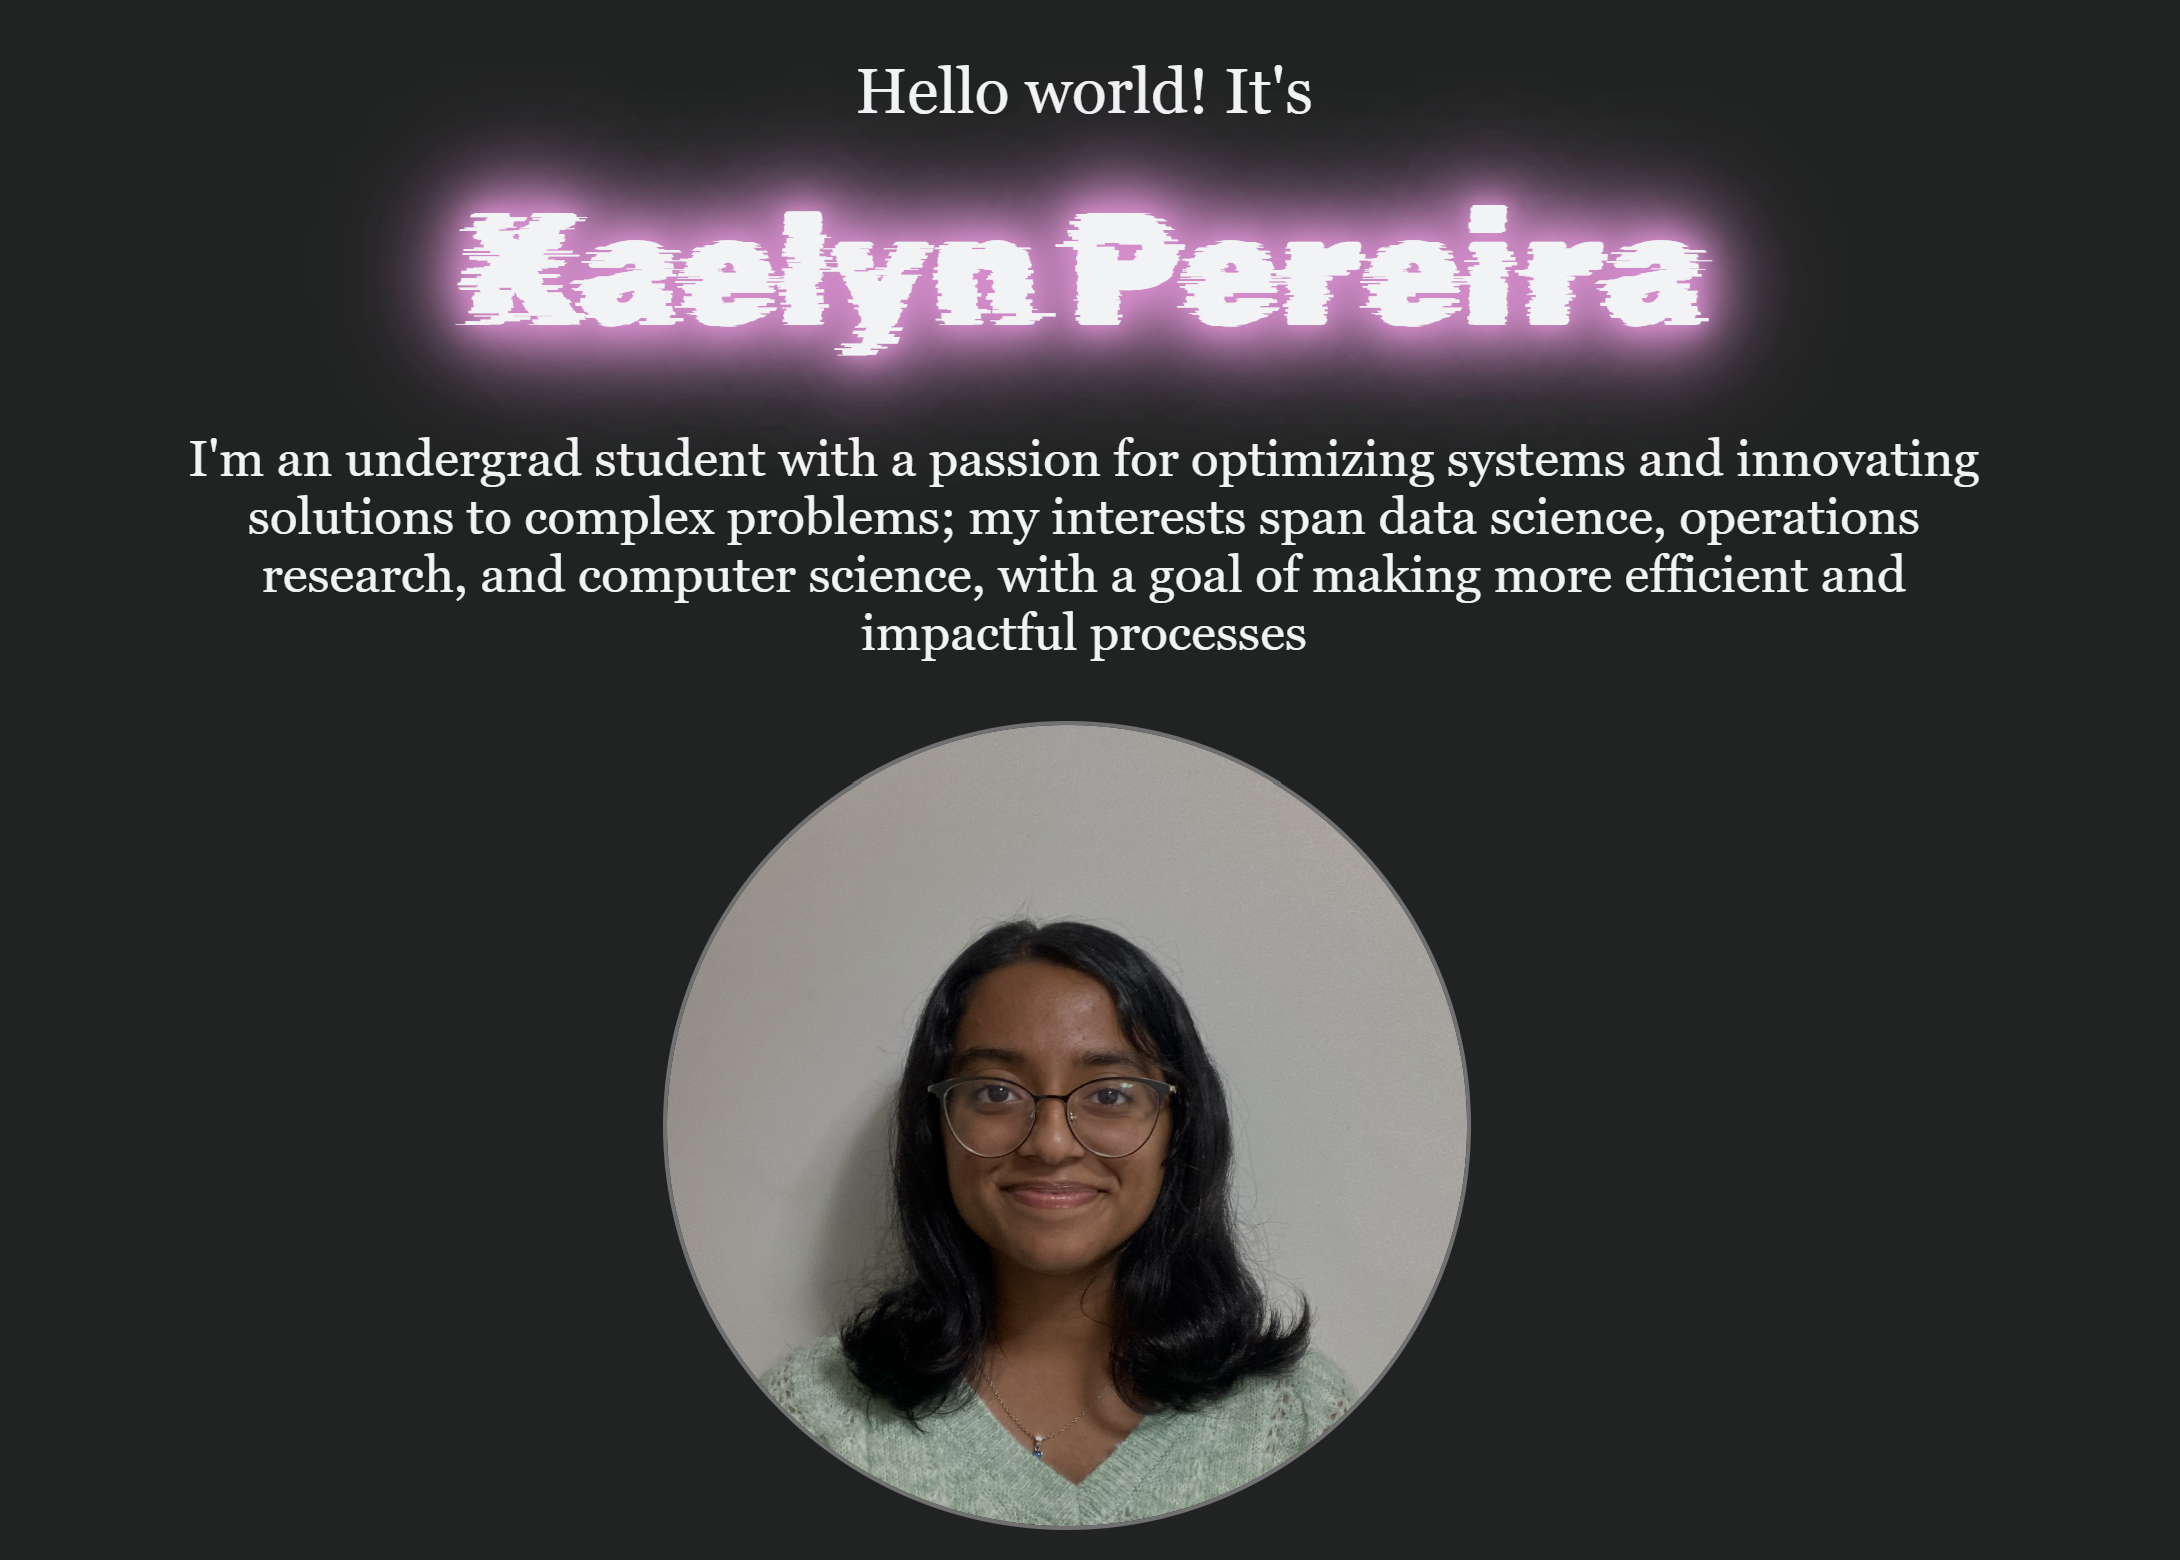
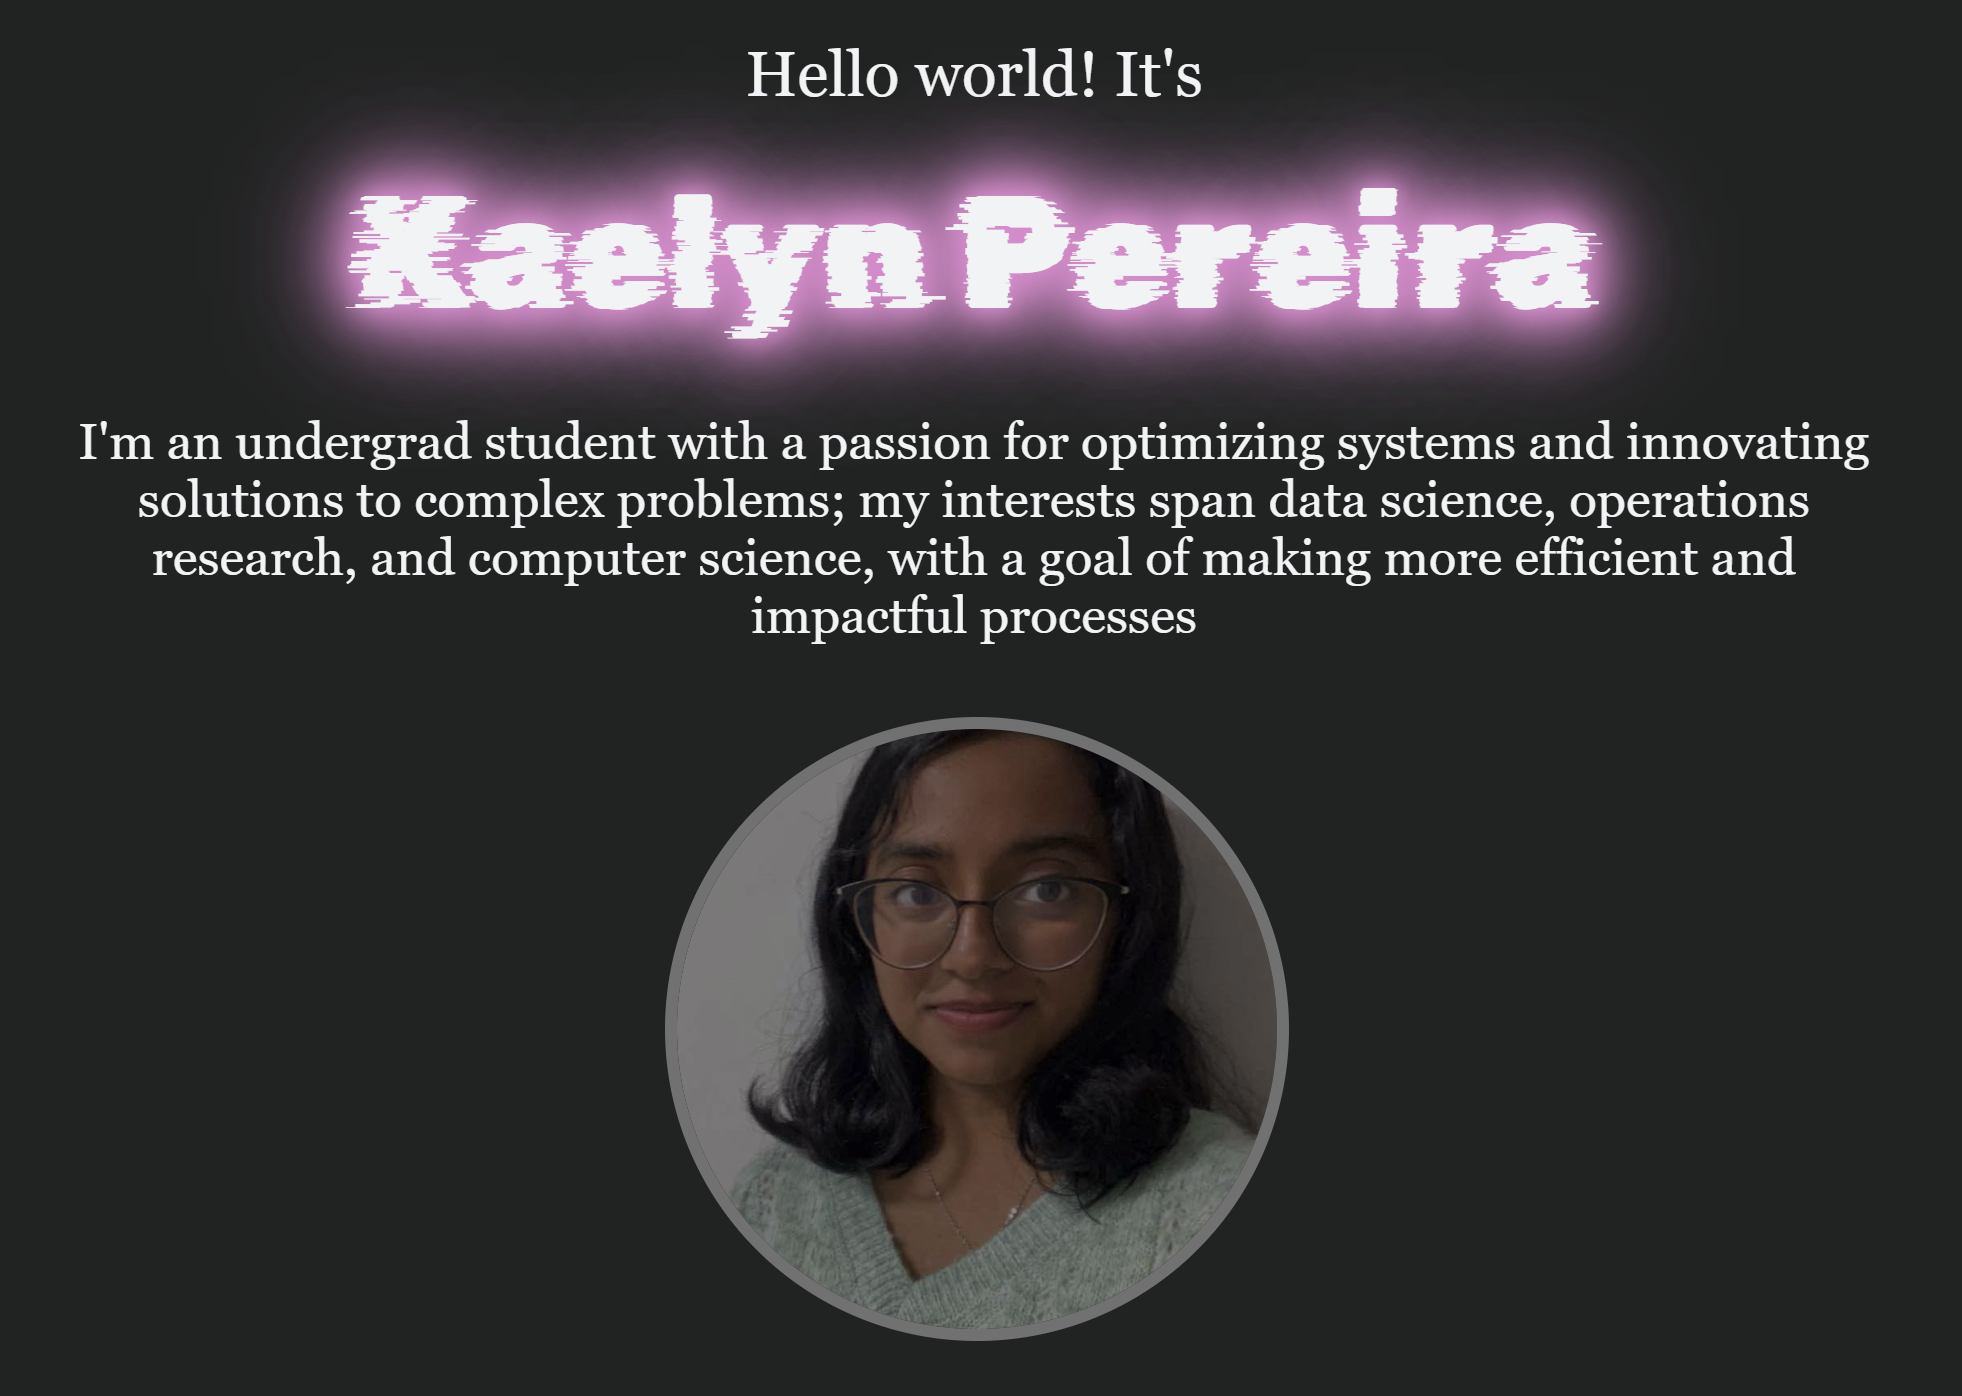
updated project descriptions

Changed region(s): [[0.0311, 0.0924, 0.9638, 0.9857], [0.3731, 0.0308, 0.6218, 0.0924]]

diff --git a/my-app/src/components/projects.js b/my-app/src/components/projects.js
@@ -19,7 +19,7 @@ const Projects = () => {
         <p className='name'>Personal Website</p>
         <a className='link' href="https://github.com/k2pereir/my-website">Follow along here!</a>
         <img className='image' src={personalWeb} alt='temp'></img>
-        <p className='description'>Created with React and deployed with GitHub Pages. This website is a showcase of my projects and skills</p>
+        <p className='description'>This website was built using React, with the backend developed in JavaScript and the frontend styled with CSS. It was deployed using GitHub Pages and serves as a showcase of my projects and skill sets.</p>
       </div>; 
     } else if (selectedProject === 'SignQuest') {
       return <div className='container'>
@@ -27,7 +27,7 @@ const Projects = () => {
         <a className='link' href="https://youtu.be/KXfTq8JxxY8">Watch the pitch video!</a>
         <a className='link2' href="https://github.com/ohi-711/jamhacks8project">Take a look at the code!</a>
         <img className='image' src={signQuest} alt='singQuest'></img>
-        <p className='description'>Created with Python, HTML, and CSS, this project is a sign language learning game that implements the MediaPipe Hand Landmarker task and OpenCV</p>
+        <p className='description'>SignQuest is a web application with a Python backend that generates a word from a predetermined list, prompting the user to demonstrate its sign language representation. It uses OpenCV to access the camera and MediaPipe's Hand Landmarking to verify the correctness of the sign. The frontend was developed using HTML and CSS.</p>
       </div>;
     } else if (selectedProject === 'Sewstainability') {
       return <div className='container'>
@@ -35,28 +35,28 @@ const Projects = () => {
       <a className='link' href="https://youtu.be/_IGU8IxzBbA">Watch the demo video!</a>
       <a className='link2' href='https://github.com/k2pereir/technova_project'>Take a look at the code!</a>
       <img className='image' src={sewstain} alt='sewstainability'></img>
-      <p className='description'>Created with Python and Streamlit, this projects promotes sustainable fashion with an online closet, thrift store, and outfit-repeat tracker</p>
+      <p className='description'>Sewstainability was created with Python and Streamlit for frontend styling. It promotes sustainable fashion with an online closet which users can track how often they reuse pieces, a thrift store where users can sell items they no longer use, and a virtual garden to incentivise the repetition of outfits.</p>
     </div>;
     } else if (selectedProject === 'Rock, Paper, Scissors') {
       return <div className='container'>
       <p className='name'>Rock, Paper, Scissors</p>
       <a className='link' href="https://github.com/k2pereir/rockpaperscissors">Follow along here!</a>
       <img className='image' src={rps} alt='rock, paper, scissors'></img>
-      <p className='description'>My current project is in Python and uses the MediaPipe Hand Landmarking and OpenCV to create a single player rock paper scissors game</p>
+      <p className='description'>My current project uses OpenCV to access the camera and collect information through MediaPipe Hand Landmarking on hand positions for rock, paper, and scissors. Data augmentation techniques such as scaling, flipping, and rotating are applied to extend the dataset and will be used to train a model to recognize rock, paper, and scissor gestures to create a single player version of the game.</p>
     </div>;
     } else if (selectedProject === 'Financial Tracker') {
       return <div className='container'>
       <p className='name'>Financial Tracker</p>
       <a className='link' href="https://youtu.be/S5iEzmtLn5A">Watch the demo video!</a>
-      <img className='image' src={financialtracker} alt='financial tracker'></img>
-      <p className='description'>Made with Excel Macros and VBA, this project is a comprehensive financial tracker</p>
+      <img className='image1' src={financialtracker} alt='financial tracker'></img>
+      <p className='description'>This financial tracker was made with Excel Macros and VBA. It contains a income and expense tracker, comprehensive breakdown of spendings, predictions for future spendings, a virtual savings jar with the ability to track savings goals, and a financial advice feature with hyperlinks to resources based on the user’s current financial state.</p>
     </div>;
     } else if (selectedProject === 'Varos') {
       return <div className='container'>
       <p className='name'>Varos</p>
       <a className='link' href="https://github.com/milkman9999/jamhaxors1">Take a look at the code!</a>
       <img className='image' src={varos} alt='varos'></img>
-      <p className='description'>'Made with JavaScript, the OpenAI API, HTML, and CSS, this web application generates a custom workout and diet plan based on user input</p>
+      <p className='description'>Made with JavaScript, the OpenAI API, HTML, and CSS, Varos generates a custom workout and diet plan based on user inputted information.</p>
     </div>;
     }
   }
@@ -117,15 +117,15 @@ const Projects = () => {
             style={{
               position: 'absolute',
               border: '2px',
-              borderColor: 'rgb(113, 113, 113)', 
+              borderColor: 'rgb(249, 217, 241)', 
               width: '40rem', 
-              height: '30rem',
+              height: '35rem',
               backgroundColor: 'rgb(113, 113, 113)',
-              marginTop: '-250px',
+              marginTop: '-260px',
               marginLeft: '250px',
               borderRadius: '10px',
-              borderColor: 'rgb(33, 34, 34)',
-              boxShadow: '0 4px 8px rgb(113, 113, 113)',
+              borderColor: 'rgb(249, 217, 241)',
+              boxShadow: '0 4px 8px rgb(249, 217, 241)',
               color: 'rgb(33, 34, 34)',
               zIndex: 9999,
               }}>

diff --git a/my-app/src/components/intro.css b/my-app/src/components/intro.css
@@ -1,5 +1,5 @@
 #me {
-    height: 120vh; 
+    height: 100vh; 
     width: 100vw; 
     max-width: 75rem; 
     margin: 0 auto; 
@@ -37,16 +37,18 @@
 
 .myself {
     position: absolute; 
-    top: 390px; 
-    right: 600px; 
+    top: 500px; 
+    right: 740px; 
     object-fit: cover; 
-    height: 400px; 
-    width: 400px; 
+    height: 100px; 
+    width: 100px; 
     border-radius: 50%; 
-    object-position: 35% 50%;
+    object-position: 75% 30%;
     outline: solid; 
     outline-color: rgb(113, 113, 113);
     outline-width: 2px; 
+    transform: scale(3); 
+    transform-origin: center; 
 }
 
 .box-outline {

diff --git a/my-app/src/components/projects.css b/my-app/src/components/projects.css
@@ -51,6 +51,11 @@
 
 .image {
     width: 500px;
+    height: 350px; 
+}
+
+.image1 {
+    width: 550px;
     height: 300px; 
 }
 
